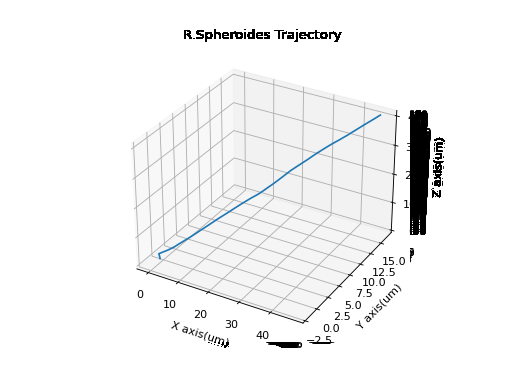
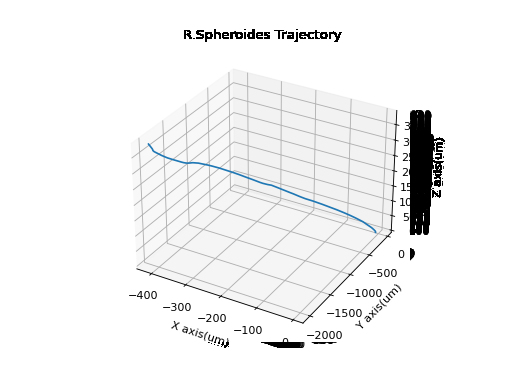
0-255 limit change commit

diff --git a/Parallel_test.py b/Parallel_test.py
@@ -2,7 +2,7 @@ import numpy as np
 import pandas as pd
 import math
 from PIL import Image
-from multiprocessing import Pool
+import multiprocessing as mp
 
 x_col = {}
 y_col = {}
@@ -18,7 +18,41 @@ z_con = []
 
 no_frames = 240
 
-no_bugs = 2
+no_bugs = 200
+
+q = 128.0
+p = -0.01
+sigma = 2.5
+
+def main_loop(x_pos,y_pos,z_con,frame):
+ name = mp.current_process().name
+ print(name)
+ for ll in range (len(x_pos)):
+  x_max = x_pos[ll] + 10
+  x_min = x_pos[ll] - 10
+  y_max = y_pos[ll] + 10
+  y_min = y_pos[ll] - 10
+  for j in range(x_min, x_max):
+    #print("first loop")
+    for k in range(y_min, y_max):
+         #print("second loop")
+         val = 0
+         for kk in range(len(x_pos)):
+            val += z_con[kk]*math.exp(-((j-x_pos[kk])*(j-x_pos[kk]))/(2.0 * sigma * sigma)) * math.exp(-((k-y_pos[kk])*(k-y_pos[kk]))/(2.0 * sigma * sigma))
+            if val > 255.0:
+             val = 255.0
+            elif val < 0:
+             val = 0.0
+         data[j,k] = [val,val,val]
+
+ #for xx in range(1024):
+  #for yy in range(1024):
+    #data[xx,yy] = (data[xx,yy]*-1) + 255
+
+
+ im= Image.fromarray(data)
+ im.save("/Users/alistair/Documents/Project/Scripts/Frames.nosync/Frame_" + str(frame) + ".png")
+ return 0
 
 for ii in range (no_bugs):
   open_path = "/Users/alistair/Documents/Project/Scripts/Trajectories.nosync/trajectory_" + str(ii) + ".csv"
@@ -32,32 +66,30 @@ for ii in range (no_bugs):
   y_col["Y%s" %ii] = y_bug
   y_vals.append(y_col["Y%s" %ii])
 
-  #z_col["Z%s" %ii] = z_bug
-  #z_vals.append(z_col["Z%s" %ii])
+  z_col["Z%s" %ii] = z_bug
+  z_vals.append(z_col["Z%s" %ii])
 
 
 coords = []
 #Periodic boundaries with 20% buffer
-upper_boundary = int(1024*1.2)
-lower_boundary = int(0-(upper_boundary - 1024))
+upper_boundary = int(1024)
+lower_boundary = int(0)
 
-q = 128
-p = -1*np.sqrt(q)
 
-sigma = 2.5
 #Set up image array and reserve memory using np.zeros()
 x, y = 1024, 1024
 data = np.zeros((x, y, 3), dtype=np.uint8)
-width = 5.0 #width in microns
+width = 5.0 #width of image in microns
 ppm = float(x)/width #Calculate pixels per micron
 
 
-for i in range(no_frames):
+for frame in range(no_frames):
     for ii in range(no_bugs):
      #Calculate x and y positions by converting array position to pixel values
-     x_pos.append(int((x_vals[ii][i]*ppm)+512))
-     y_pos.append(int((y_vals[ii][i]*ppm)+512))
-     #z_con.append(int(np.sqrt(z_vals[ii][i]*z_vals[ii][i]+2.0*z_vals[ii][i]*p+p*p)+q))
+     x_pos.append(int((x_vals[ii][frame]*ppm)+512))
+     y_pos.append(int((y_vals[ii][frame]*ppm)+512))
+     z_con.append((p*z_vals[ii][frame]*z_vals[ii][frame])+q)
+
 
     #Periodic boudnary conditions - 20% buffer either side, will reenter opposite side of array.
     #Check logic - code seems good
@@ -67,29 +99,16 @@ for i in range(no_frames):
         y_delta = y_pos[l] - 512
         x_pos[l] = 512 - x_delta
         y_pos[l] = 512 - y_delta
+    if __name__ == '__main__':
+      proc = mp.Process(target=main_loop(x_pos,y_pos,z_con,frame))
+      proc.start()
 
-    #Create array list of coordinates in pixels of bacteria - optional
-    #coordinates = np.array([i, x_pos, y_pos], dtype=object)
-    #coords.append(x_pos)
+    #data_array = main_loop(x_pos,y_pos,z_con)
 
-    for j in range(x):
-        for k in range(y):
-            val = 0
-            for kk in range (len(x_pos)):
-              val = 255*math.exp(-((j-x_pos[kk])*(j-x_pos[kk]))/(2.0 * sigma * sigma)) * math.exp(-((k-y_pos[kk])*(k-y_pos[kk]))/(2.0 * sigma * sigma))
-            data[j,k] = [val,val,val]
-            #print("test_3")
-
-    #Values are inserted into array for bliue square, will change with functions
-    #to iterate over array and assign colour values normally
-    #data[x_lower:x_upper, y_lower:y_upper] = [0, 0, 255] # blue patch
     #Image creation code
-    im= Image.fromarray(data)
-    im.save("/Users/alistair/Documents/Project/Scripts/Frames.nosync/Frame_" + str(i) + ".png")
+
     #Reset array to zero after each image to avoid artefacts from previous iteration.
     data = np.zeros((x, y, 3), dtype=np.uint8)
     x_pos.clear()
     y_pos.clear()
     z_con.clear()
-
-#np.savetxt("/Users/alistair/Documents/Project/Scripts/Frames.nosync/coordinates.txt", coords)

diff --git a/Par_test2.py b/Par_test2.py
@@ -16,25 +16,25 @@ x_pos = []
 y_pos = []
 z_con = []
 
-no_bugs = 150
+no_bugs = 200
 
 #Periodic boundaries with 20% buffer
-upper_boundary = int(1024)
-lower_boundary = int(0)
+upper_boundary = int(1024*1.2)
+lower_boundary = int(0-(upper_boundary-1024.0))
 
 def main_loop(no_bugs):
  q = 128.0
- p = -0.01
- sigma = 2.5
- no_frames = 480
+ p = -0.0005
+ sigma = 2.0
+ no_frames = 2000
 #Set up image array and reserve memory using np.zeros()
  x, y = 1024, 1024
  data = np.zeros((x, y, 3), dtype=np.uint8)
- width = 5.0 #width of image in microns
+ width = 500 #width of image in microns
  ppm = float(x)/width #Calculate pixels per micron
 
 
- for i in range(140, 480):
+ for i in range(1, no_frames, 5):
     for ii in range(no_bugs):
      #Calculate x and y positions by converting array position to pixel values
      x_pos.append(int((x_vals[ii][i]*ppm)+512))
@@ -44,36 +44,48 @@ def main_loop(no_bugs):
     #Periodic boudnary conditions - 20% buffer either side, will reenter opposite side of array.
     #Check logic - code seems good
     for l in range (len(x_pos)):
-     if((abs(x_pos[l]) or abs(y_pos[l])) >= 1024 or (abs(y_pos[l]) or abs(x_pos[l])) <= 0):
-        x_delta = x_pos[l] - 512
-        y_delta = y_pos[l] - 512
-        x_pos[l] = 512 - x_delta
-        y_pos[l] = 512 - y_delta
+     if((x_pos[l] or y_pos[l]) >= upper_boundary or (y_pos[l] or x_pos[l]) <= lower_boundary):
+        if (x_pos[l] == 0):
+             x_delta = 0.833
+             y_delta = upper_boundary%y_pos[l]
+             x_pos[l] = int(abs(x_delta)*upper_boundary)
+             y_pos[l] = int(abs(y_delta)*upper_boundary)
+        elif (y_pos[l] == 0):
+             x_delta = upper_boundary%x_pos[l]
+             y_delta = 0.833
+             x_pos[l] = int(abs(x_delta)*upper_boundary)
+             y_pos[l] = int(abs(y_delta)*upper_boundary)
+        else :
+             x_delta = upper_boundary%x_pos[l]
+             y_delta = upper_boundary%y_pos[l]
+             x_pos[l] = int(abs(x_delta)*upper_boundary)
+             y_pos[l] = int(abs(y_delta)*upper_boundary)
+
+
 
 
     for ll in range (len(x_pos)):
-
-     x_max = x_pos[ll] + 10
-     x_min = x_pos[ll] - 10
-     y_max = y_pos[ll] + 10
-     y_min = y_pos[ll] - 10
+     x_max = x_pos[ll] + 8
+     x_min = x_pos[ll] - 8
+     y_max = y_pos[ll] + 8
+     y_min = y_pos[ll] - 8
      for j in range(x_min, x_max):
         for k in range(y_min, y_max):
-          val = 0
-          for kk in range(len(x_pos)):
-             val += z_con[kk]*math.exp(-((j-x_pos[kk])*(j-x_pos[kk]))/(2.0 * sigma * sigma)) * math.exp(-((k-y_pos[kk])*(k-y_pos[kk]))/(2.0 * sigma * sigma))
-             if val > 255.0:
-              val = 255.0
-             elif val < 0:
-              val = 0.0
-          if (j < 1024 and j > 0 and k < 1024 and k > 0):
-           data[j,k] = [val,val,val]
+         if (j < 1024 and j > 0 and k < 1024 and k > 0):
+          val = data[j,k]
+          val += np.uint8(z_con[ll]*math.exp(-((j-x_pos[ll])*(j-x_pos[ll]))/(2.0 * sigma * sigma)) * math.exp(-((k-y_pos[ll])*(k-y_pos[ll]))/(2.0 * sigma * sigma)))
+
+          #data[j,k] = val
 
 
-    #Image creation code
+    #Image inversion code
     for xx in range(1024):
         for yy in range(1024):
-            data[xx,yy] = (data[xx,yy]*-1) + 255
+          if np.any(data[xx,yy]) > 255.0:
+            data[xx,yy] = 255.0
+          elif np.any(data[xx,yy]) < 0:
+            data[xx,yy] = 0
+          data[xx,yy] = (data[xx,yy]*-1) + 255
 
     im= Image.fromarray(data)
     im.save("/Users/alistair/Documents/Project/Scripts/Frames2.nosync/Frame_" + str(i) + ".png")
@@ -92,14 +104,14 @@ for ii in range (no_bugs):
   x_bug = df["X"]
   y_bug = df["Y"]
   z_bug = df["Z"]
-  x_col["X%s" %ii] = x_bug
-  x_vals.append(x_col["X%s" %ii] )
+  x_col["X%s"] = x_bug
+  x_vals.append(x_col["X%s"] )
 
-  y_col["Y%s" %ii] = y_bug
-  y_vals.append(y_col["Y%s" %ii])
+  y_col["Y%s"] = y_bug
+  y_vals.append(y_col["Y%s"])
 
-  z_col["Z%s" %ii] = z_bug
-  z_vals.append(z_col["Z%s" %ii])
+  z_col["Z%s"] = z_bug
+  z_vals.append(z_col["Z%s"])
 
 if __name__ == '__main__':
   proc = mp.Process(target = main_loop(no_bugs))

diff --git a/R.sphaeroides3.py b/R.sphaeroides3.py
@@ -15,7 +15,7 @@ for l in range(Particles):
  MAD_results = []
  Time = []
 
- time_tot = 20 #Total sim time in seconds
+ time_tot = 5*60 #Total sim time in seconds
  #Run speed in microns/second
  run_speed = 20.0
  #Corresponding frequency-needs to be 100Hz
@@ -95,6 +95,14 @@ for l in range(Particles):
 
     return new_vector
 
+ def initial_stop(swim):
+    duration = int(10*freq)
+    swim = np.array([x,y,z])
+    for i in range(duration):
+        swim = stop_rotate(swim)
+    return swim
+
+
  def stop(swim):
     #Stop duration in uniform between 0.5-1.5s
     stop_duration = random.expovariate(stop_lambd)
@@ -141,8 +149,8 @@ for l in range(Particles):
 
  #Generate the number of desired steps(n) with a variable 'steps' = n+1
  #Works as number of trajectories per step
- x_init = random.uniform(-2,2)
- z_init = random.uniform(-2,2)
+ x_init = random.uniform(-50,50)
+ z_init = random.uniform(-50,50)
  #Generate the starting position
  x_pos,y_pos,z_pos = (x_init, z_init, 0)
 
@@ -157,6 +165,8 @@ for l in range(Particles):
  swim = np.array([x,
                  y,
                  z])
+ swim = initial_stop(swim)
+
  old_vector = np.array([x,
                        y,
                        z])
@@ -198,15 +208,15 @@ for l in range(Particles):
  plt.savefig("R.Sphaeroides_trajectory.png",dpi=80)
 
  #Combine the arrays into a single array, transpose and save it as a .csv file.
- times = 0.00
- for i in range(len(xpos_arr)):
-     times += 0.01
-     Time.append(times)
- pos_arr = np.array([Time,xpos_arr, ypos_arr, zpos_arr])
+ #times = 0.00
+ #for i in range(len(xpos_arr)):
+     #times += 0.01
+     #Time.append(times)
+ pos_arr = np.array([xpos_arr, ypos_arr, zpos_arr])
  pos_arr = pos_arr.T
- df = pd.DataFrame(pos_arr, columns = ["Time(S)", "X", "Y", "Z"])
+ df = pd.DataFrame(pos_arr, columns = ["X", "Y", "Z"])
  path = "/Users/alistair/Documents/Project/Scripts/Trajectories2.nosync/trajectory_" + str(l) + ".csv"
- df.to_csv(path, sep="\t")
+ df.to_csv(path, sep = "\t")
 
  #Mean_S_Ang_Disp=MAD(angles)
  #Mean_Ang_Disp=np.sqrt(Mean_S_Ang_Disp)
